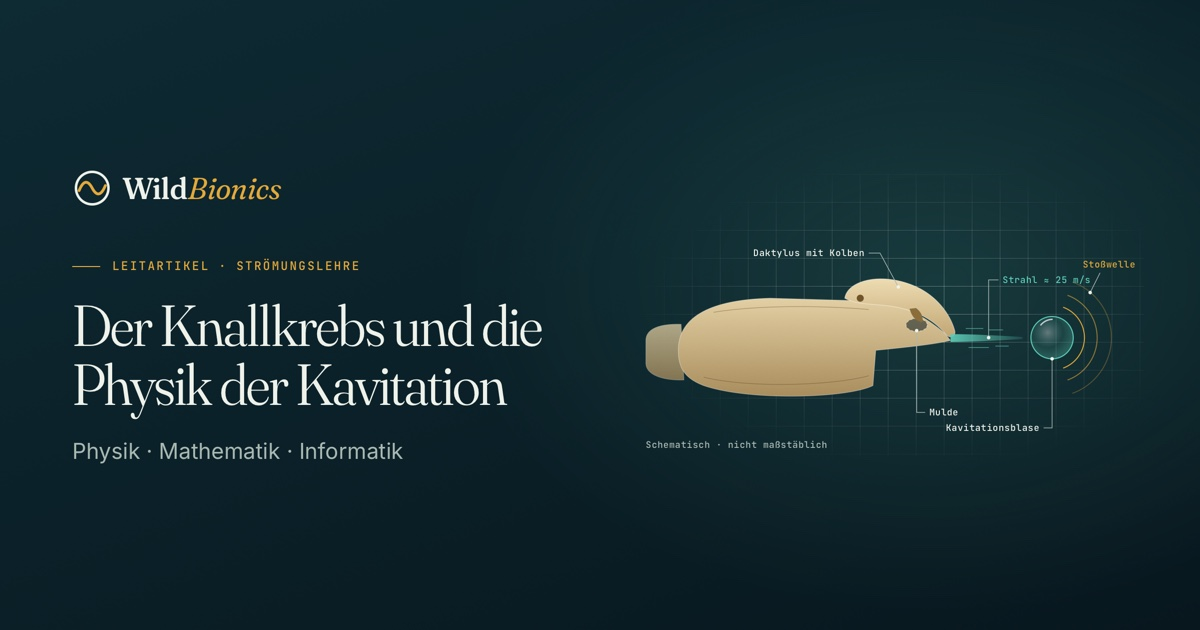
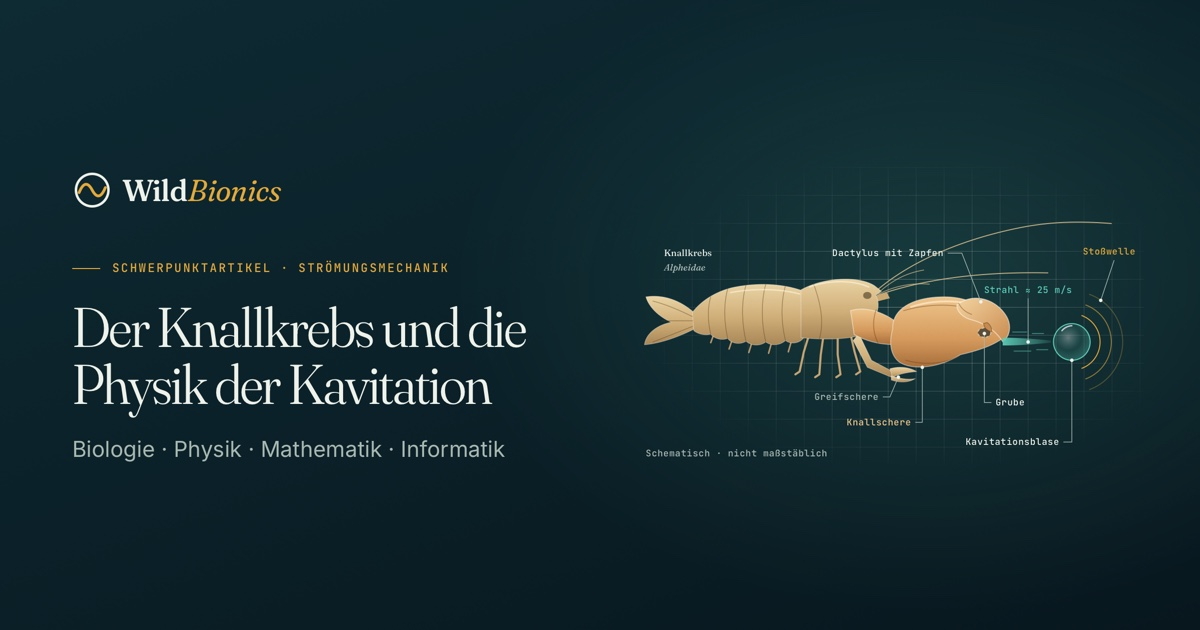
Flagship figure: whole pistol shrimp instead of an abstract claw
- Fig. 1 now shows a recognisable pistol shrimp in side view: oversized
  snapping claw, small pincer claw, smooth carapace with eye hood, segmented
  abdomen with pleura, swimmerets, tail fan, walking legs and antennae;
  mechanism labels (dactyl with plunger, socket, jet, bubble, shock wave) kept
- New EN/DE labels, captions and alt descriptions; regenerated article OG images
- Glossary: leading * allows German compounds (Knallschere, Greifschere)

diff --git a/assets/css/main.css b/assets/css/main.css
@@ -1039,13 +1039,22 @@ var {
 .article-meta dd { color: var(--on-dark); }
 .article-meta a { text-underline-offset: 3px; }
 
-/* Claw schematic */
-.claw-svg .shell { fill: url(#claw-shell); stroke: rgba(255, 255, 255, 0.35); stroke-width: 1; }
-.claw-svg .shell-line { fill: none; stroke: rgba(80, 58, 20, 0.35); stroke-width: 1; }
-.claw-svg .finger { fill: url(#claw-finger); stroke: rgba(255, 255, 255, 0.45); stroke-width: 1; }
-.claw-svg .plunger { fill: #8a6d3b; }
-.claw-svg .hinge { fill: #6f5429; }
-.claw-svg .socket { fill: rgba(8, 23, 30, 0.55); stroke: rgba(255, 255, 255, 0.5); stroke-dasharray: 3 3; }
+/* Pistol shrimp illustration */
+.claw-svg .shell { fill: url(#shrimp-shell); stroke: rgba(255, 255, 255, 0.35); stroke-width: 1; stroke-linejoin: round; }
+.claw-svg .shell-line { fill: none; stroke: rgba(90, 64, 26, 0.45); stroke-width: 1.1; stroke-linecap: round; }
+.claw-svg .shell-shine { fill: none; stroke: rgba(255, 248, 230, 0.55); stroke-width: 2; stroke-linecap: round; }
+.claw-svg .eye { fill: #3b2a16; opacity: 0.55; }
+.claw-svg .antenna { fill: none; stroke: #d9bf8e; stroke-width: 1.4; stroke-linecap: round; opacity: 0.85; }
+.claw-svg .antenna--short { stroke-width: 1.2; opacity: 0.7; }
+.claw-svg .antenna-base { fill: #caa874; }
+.claw-svg .legs path { fill: none; stroke: #c4a372; stroke-width: 3; stroke-linecap: round; stroke-linejoin: round; }
+.claw-svg .pleopods { fill: none; stroke: #b8966a; stroke-width: 2.2; stroke-linecap: round; }
+.claw-svg .claw { fill: url(#shrimp-claw); stroke: rgba(255, 255, 255, 0.45); stroke-width: 1; stroke-linejoin: round; }
+.claw-svg .claw-line { fill: none; stroke: rgba(110, 60, 20, 0.4); stroke-width: 1.1; stroke-linecap: round; }
+.claw-svg .dactyl { fill: url(#shrimp-finger); stroke: rgba(255, 255, 255, 0.55); stroke-width: 1; }
+.claw-svg .plunger { fill: #c58a4f; stroke: rgba(90, 50, 15, 0.5); stroke-width: 0.8; }
+.claw-svg .claw-shine { fill: none; stroke: rgba(255, 244, 222, 0.6); stroke-width: 2; stroke-linecap: round; }
+.claw-svg .socket { fill: rgba(8, 23, 30, 0.6); stroke: rgba(255, 255, 255, 0.55); stroke-dasharray: 2.5 2.5; }
 .claw-svg .jet { fill: url(#claw-jet); }
 .claw-svg .speed { fill: none; stroke: var(--signal); stroke-width: 1.2; stroke-linecap: round; opacity: 0.6; }
 .claw-svg .bubble { fill: url(#claw-bubble); stroke: var(--signal); stroke-width: 1.5; }
@@ -1053,6 +1062,9 @@ var {
 .claw-svg .shock-rings path { stroke: var(--accent); stroke-width: 1.4; }
 .claw-svg .shock-rings path:nth-child(2) { opacity: 0.6; }
 .claw-svg .shock-rings path:nth-child(3) { opacity: 0.3; }
+.claw-svg .label-title { font-family: var(--font-display); font-size: 20px; font-weight: 450; letter-spacing: 0; fill: var(--text); }
+.claw-svg .label-taxon { font-family: var(--font-display); font-style: italic; font-size: 14px; letter-spacing: 0; }
+.claw-svg .label-strong { fill: #eec58c; }
 .label-signal { fill: var(--signal); }
 .lens__panel .label-signal, .figure:not(.figure--dark) .label-signal { fill: var(--signal-ink); }
 .figure:not(.figure--dark) .label-accent { fill: var(--accent-ink); }

diff --git a/.github/scripts/check_terms.rb b/.github/scripts/check_terms.rb
@@ -24,6 +24,7 @@ taxonomy = YAML.load_file("_data/taxonomy.yml")
 langs = YAML.load_file("_config.yml").fetch("languages")
 
 # "Stoßwelle*" → /(?<![\p{L}\p{N}])Stoßwelle\p{L}*(?![\p{L}\p{N}])/i
+# A leading * allows German compounds: "*schere*" matches "Knallschere", "Greifscheren".
 def term_regex(term)
   body = term.split("*", -1).map { |part| Regexp.escape(part).gsub("\\ ", "\\s+") }.join("\\p{L}*")
   Regexp.new("(?<![\\p{L}\\p{N}])#{body}(?![\\p{L}\\p{N}])", Regexp::IGNORECASE)

diff --git a/_articles/pistol-shrimp-cavitation.de.md b/_articles/pistol-shrimp-cavitation.de.md
@@ -12,7 +12,7 @@ permalink: /de/artikel/knallkrebs-kavitation/
 image: /assets/og/pistol-shrimp-cavitation-de.jpg
 image_alt: "Schema der Schere eines Knallkrebses, die einen Wasserstrahl abschießt, der eine Kavitationsblase und eine Stoßwelle erzeugt."
 hero_figure: svg/claw.svg
-hero_caption: "<span class=\"caption__label\">Abb. 1</span> Die Knallschere. Ein Zapfen am beweglichen Scherenfinger (Dactylus) drückt Wasser aus einer Grube; der Strahl erzeugt eine Kavitationsblase, deren Kollaps eine Stoßwelle aussendet."
+hero_caption: "<span class=\"caption__label\">Abb. 1</span> Ein Knallkrebs mit seiner übergroßen Knallschere. Ein Zapfen am beweglichen Scherenfinger (Dactylus) drückt Wasser aus einer Grube; der Strahl erzeugt eine Kavitationsblase, deren Kollaps eine Stoßwelle aussendet."
 educational_level: "Intermediate"
 keywords: ["Knallkrebs", "Pistolenkrebs", "Alpheidae", "Kavitation", "Kavitationsblase", "Shrimpolumineszenz", "Bernoulli-Gleichung", "Rayleigh-Plesset-Gleichung", "Kavitationserosion", "Stoßwelle", "Bionik"]
 about:

diff --git a/_articles/pistol-shrimp-cavitation.en.md b/_articles/pistol-shrimp-cavitation.en.md
@@ -12,7 +12,7 @@ permalink: /articles/pistol-shrimp-cavitation/
 image: /assets/og/pistol-shrimp-cavitation-en.jpg
 image_alt: "Schematic of a pistol shrimp claw firing a water jet that creates a cavitation bubble and a shock wave."
 hero_figure: svg/claw.svg
-hero_caption: "<span class=\"caption__label\">Fig. 1</span> The snapping claw. A plunger on the movable finger (dactyl) drives water out of a socket; the jet creates a cavitation bubble whose collapse sends out a shock wave."
+hero_caption: "<span class=\"caption__label\">Fig. 1</span> A pistol shrimp and its oversized snapping claw. A plunger on the movable finger (dactyl) drives water out of a socket; the jet creates a cavitation bubble whose collapse sends out a shock wave."
 educational_level: "Intermediate"
 keywords: ["pistol shrimp", "snapping shrimp", "Alpheidae", "cavitation", "cavitation bubble", "shrimpoluminescence", "Bernoulli's principle", "Rayleigh–Plesset equation", "cavitation erosion", "shock wave", "bionics"]
 about:
